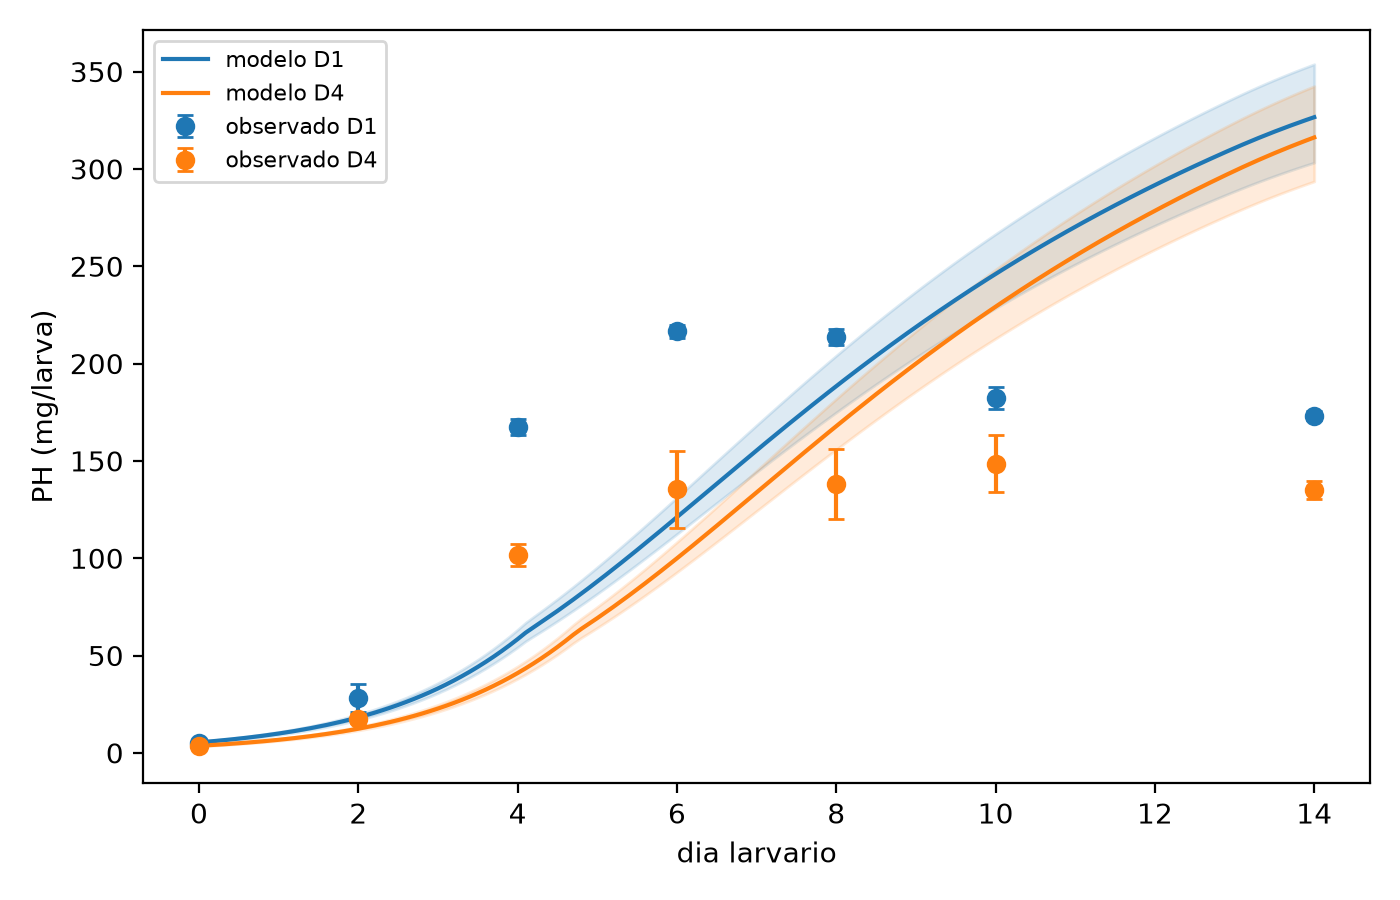
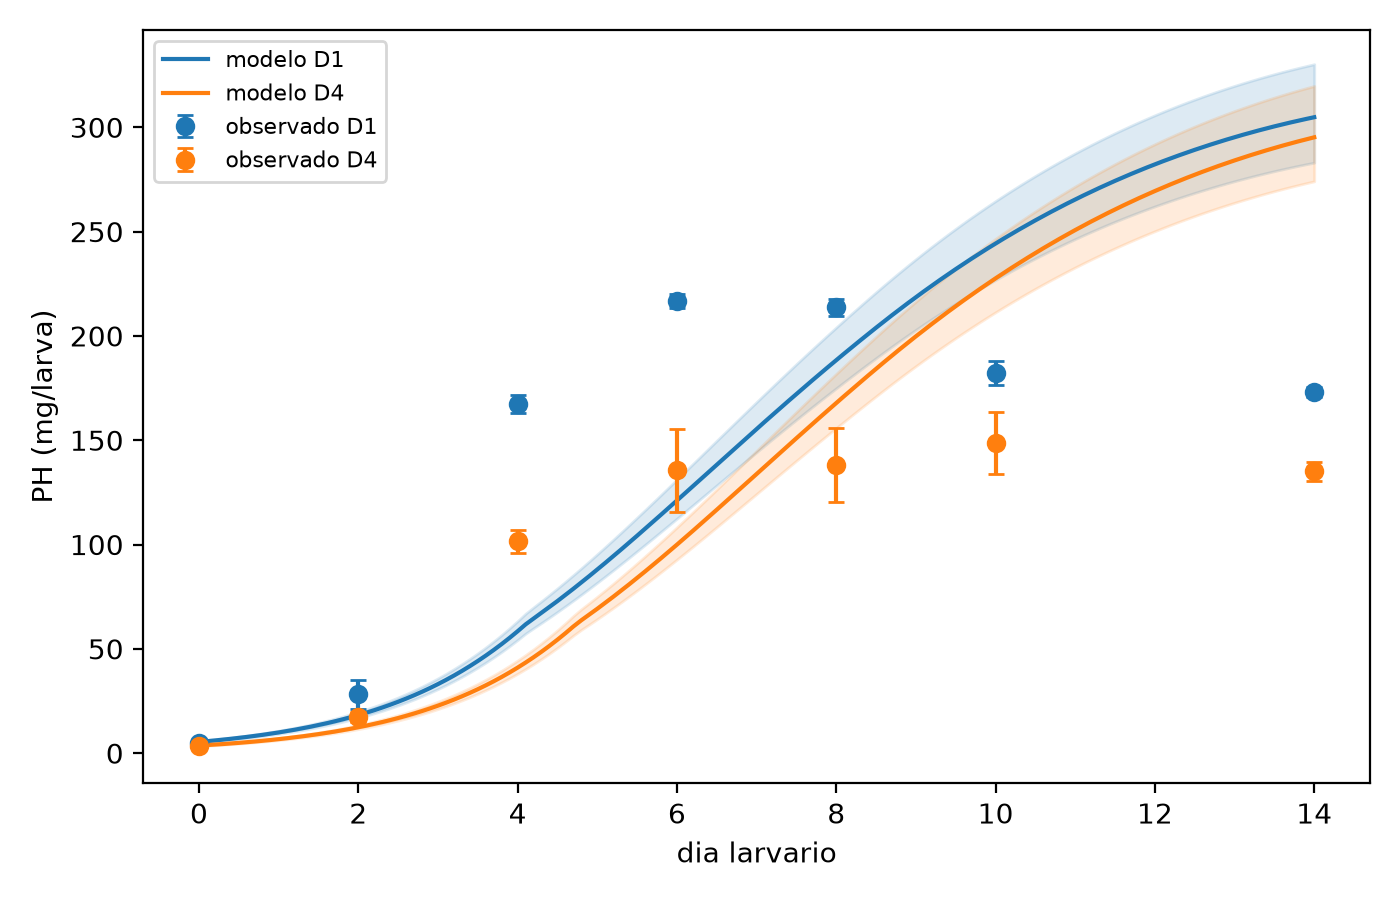
Fija montaje al 3 sep y tp_min a 8.5 d; actualiza comparaciones

diff --git a/scripts/comparar_crecimiento.py b/scripts/comparar_crecimiento.py
@@ -12,9 +12,8 @@ Conversion modelo -> peso humedo (decision metodologica A):
 Supuestos declarados:
   - f_MS central 0.325 (literatura BSF, larva viva; no medido en el ensayo).
   - Estado inicial desde PH del dia 0: XDW0 = PH0 * f_MS central.
-  - tp_min = 13 d de Eriksen cuenta desde neonato; nuestras larvas ya
-    tenian ~4 mg PH al montaje, asi que un desfase temporal es esperable
-    y se cuantifica en los residuos (no se ajusta aqui).
+  - tp_min = 8.5 d desde montaje: 13 d de Eriksen desde eclosion menos
+    los 4.5 d de edad de las larvas al montaje (dato del experimentador).
 """
 
 import argparse
@@ -71,7 +70,7 @@ def main():
     args = parser.parse_args()
 
     obs = pd.read_csv(args.crecimiento)
-    p = ParametrosEriksen()
+    p = ParametrosEriksen(tp_min=8.5)
     t_eval = np.arange(0.0, 14.0 + 0.05, 0.1)
 
     filas = []

diff --git a/scripts/comparar_gas.py b/scripts/comparar_gas.py
@@ -64,7 +64,7 @@ P_LECHO_REF = ParametrosLecho(
 )
 
 T_FIN = 14.0
-DIA_MONTAJE_SEP = 5  # dia larvario = dia de septiembre - 5
+DIA_MONTAJE_SEP = 3  # dia larvario = dia de septiembre - 3 (montaje 3 sep)
 
 
 def pulso_carbono(dieta: str, g_fresco: float) -> float:
@@ -124,7 +124,7 @@ def main():
 
     cierres = pd.read_csv(args.cierres)
     crec = pd.read_csv(args.crecimiento)
-    p_larva = ParametrosEriksen()
+    p_larva = ParametrosEriksen(tp_min=8.5)
     t_eval = np.arange(0.0, T_FIN + 0.05, 0.05)
 
     ph0 = {

diff --git a/scripts/tabla_crecimiento.py b/scripts/tabla_crecimiento.py
@@ -16,9 +16,9 @@ from pathlib import Path
 
 import pandas as pd
 
-MONTAJE = date(2025, 9, 5)  # hipotesis documentada en datos/README.md
-DIAS_GAS = [4, 6, 8, 12]    # cierres del 9, 11, 13 y 17 de septiembre
-DIAS_GAS_CON_PESAJE = [4, 6, 8]
+MONTAJE = date(2025, 9, 3)  # hipotesis documentada en datos/README.md
+DIAS_GAS = [6, 8, 10, 14]   # cierres del 9, 11, 13 y 17 sep; montaje 3 sep
+DIAS_GAS_CON_PESAJE = [6, 8, 10, 14]  # sincronizacion 4 de 4
 
 
 def main():

diff --git a/datos/README.md b/datos/README.md
@@ -40,3 +40,56 @@ mismas cajas del experimento de gas (mismo lote y mismas dietas).
 Nota sobre MS de larvas: el analisis bromatologico del Excel reporta MS de
 larva secada para analisis (~97 %), no el contenido de materia seca de larva
 viva. La conversion PH -> MS -> carbono se definira aparte.
+
+## Regimen de alimentacion y volumen de camara (correcciones al articulo viejo)
+
+Regimen real de cargas (confirmado por el experimentador):
+- Dia larvario 1 (2025-09-06): 250 g tal como se recibio.
+- Dia larvario 5 (2025-09-10): 250 g tal como se recibio.
+- Total 500 g, sin retiros, hasta el dia 15. Consistente con PAL = 500 g
+  de la hoja Bioconversion del Excel de pesos.
+- El texto del articulo viejo decia 500 g + 250 g: era incorrecto.
+- Controles de alimento: mismo regimen de cargas, sin larvas.
+- Larvas en ayuno: camara vacia, sin sustrato.
+
+Materia seca por carga de 250 g (bromatologia propia):
+- D1 (MS 86.3 %): 215.75 g MS por carga.
+- D4 (MS 80.3 %): 200.75 g MS por carga.
+
+Volumen de aire efectivo (estimacion geometrica, sensibilidad +-0.5 L):
+- Camara troncopiramidal: 13.8 L (boca 37x26, base 32x21, h 17 cm).
+- Recipiente interno real: 12x12x5 cm = 0.72 L (el suplementario viejo
+  decia 15x12x5: era incorrecto).
+- V_aire = 13.8 - 0.72 = 13.08 L.
+- Temperatura de cierre: T = 300 K.
+
+## Edad larvaria al montaje y desfase de etiquetado (confirmados por el experimentador)
+
+- Las larvas tenian 4.5 d de edad al montaje. Por tanto el tp_min = 13 d de
+  Eriksen (desde eclosion) corresponde a tp_min = 8.5 d desde el montaje.
+  Se usa fijo, no calibrado.
+- Desfase Delta = 2 d entre el etiquetado de medicion y el dia de montaje
+  (notas de laboratorio): dia larvario de gas = dia calendario desde
+  montaje - 2. Con ello los cierres corresponden a los dias larvarios
+  2, 4, 6 y 10, todos con pesaje directo (sincronizacion 4 de 4).
+- V_aire: el 12.1 L del articulo viejo era estimado; el valor de trabajo es
+  13.08 L (reconstruccion geometrica, seccion anterior).
+- delta_DW,0 = 0.26 del articulo viejo no es trazable (posiblemente de la
+  base de datos de los experimentadores, sin confirmar); se mantiene
+  f_MS = 0.325 de literatura con banda [0.30, 0.35].
+
+## Correccion de la hipotesis de montaje (2025-09-03)
+
+El desfase Delta=2 d del articulo viejo se probo y se rechazo: llevaba el
+pico de gas (670 ppm/min) al dia larvario 2, donde 700 larvas tienen ~2 g
+de carbono corporal; respirar >=6.1 g C/d es fisicamente imposible
+(~3 veces el carbono corporal por dia). Ese Delta se referia al etiquetado
+de archivos del articulo viejo, no al calendario.
+
+Nueva hipotesis documentada: montaje = 2025-09-03. Los cierres caen en los
+dias larvarios 6, 8, 10 y 14. Justificacion triple:
+1. Sincronizacion 4 de 4 con dias de pesaje (6, 8, 10, 14).
+2. El pico de gas (dia 6) coincide con el pico de crecimiento observado.
+3. El balance de carbono es factible (tasa especifica ~0.34 d^-1 en el
+   pico voraz, alta pero plausible).
+El ayuno del 17 sep corresponde entonces al dia larvario 14 (prepupa).
